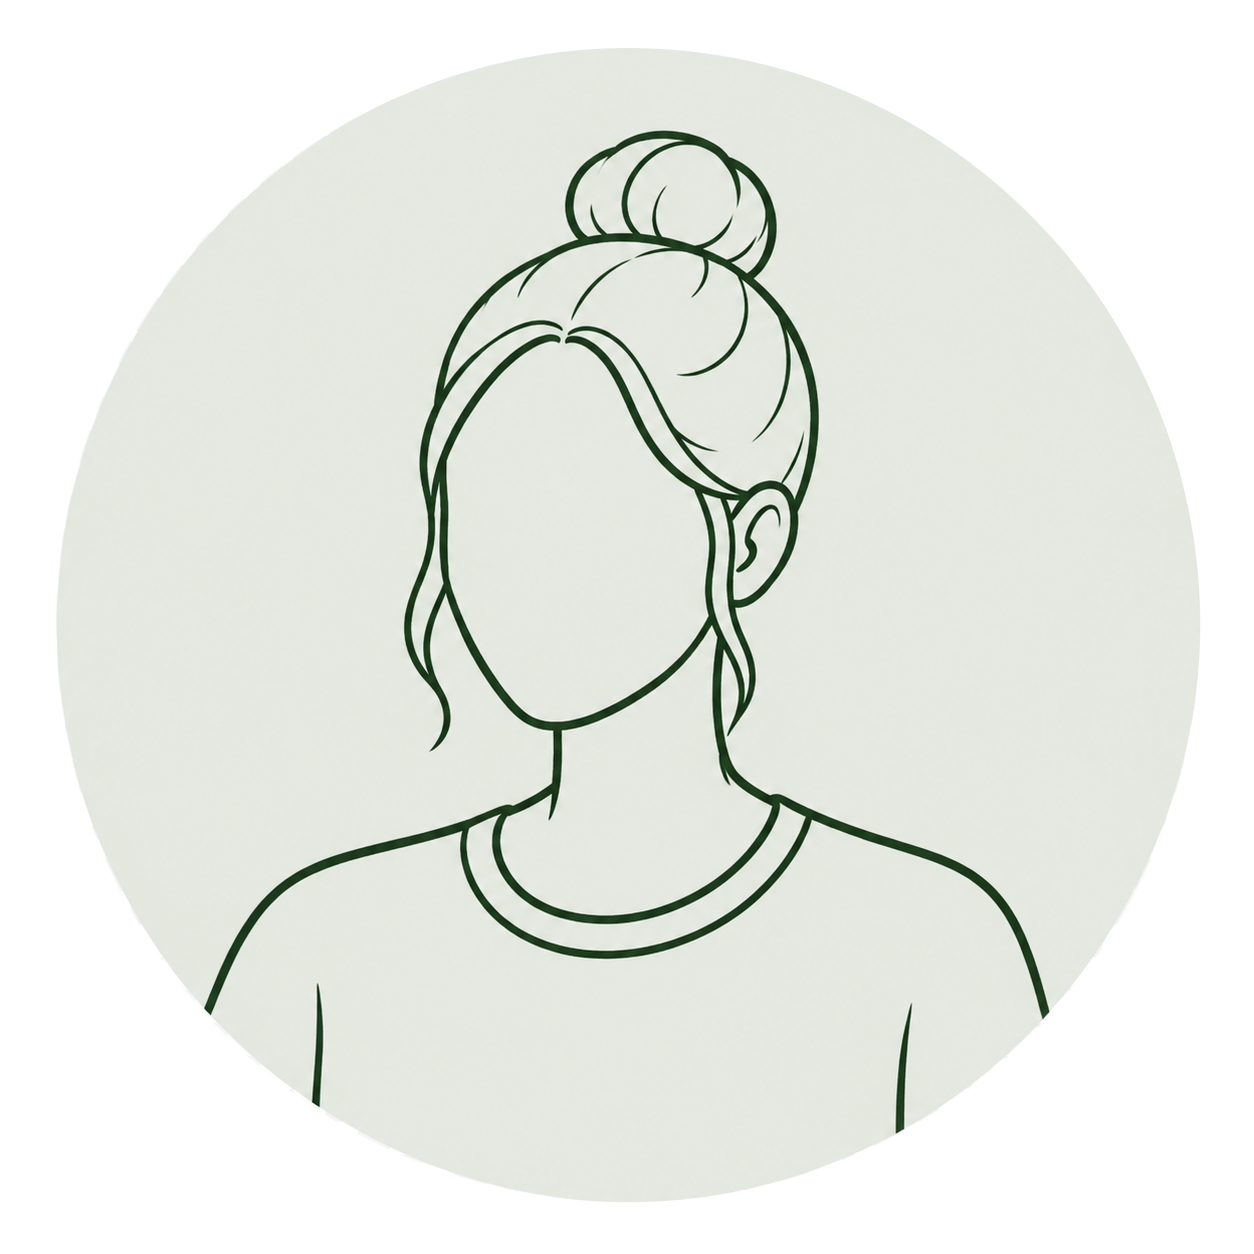
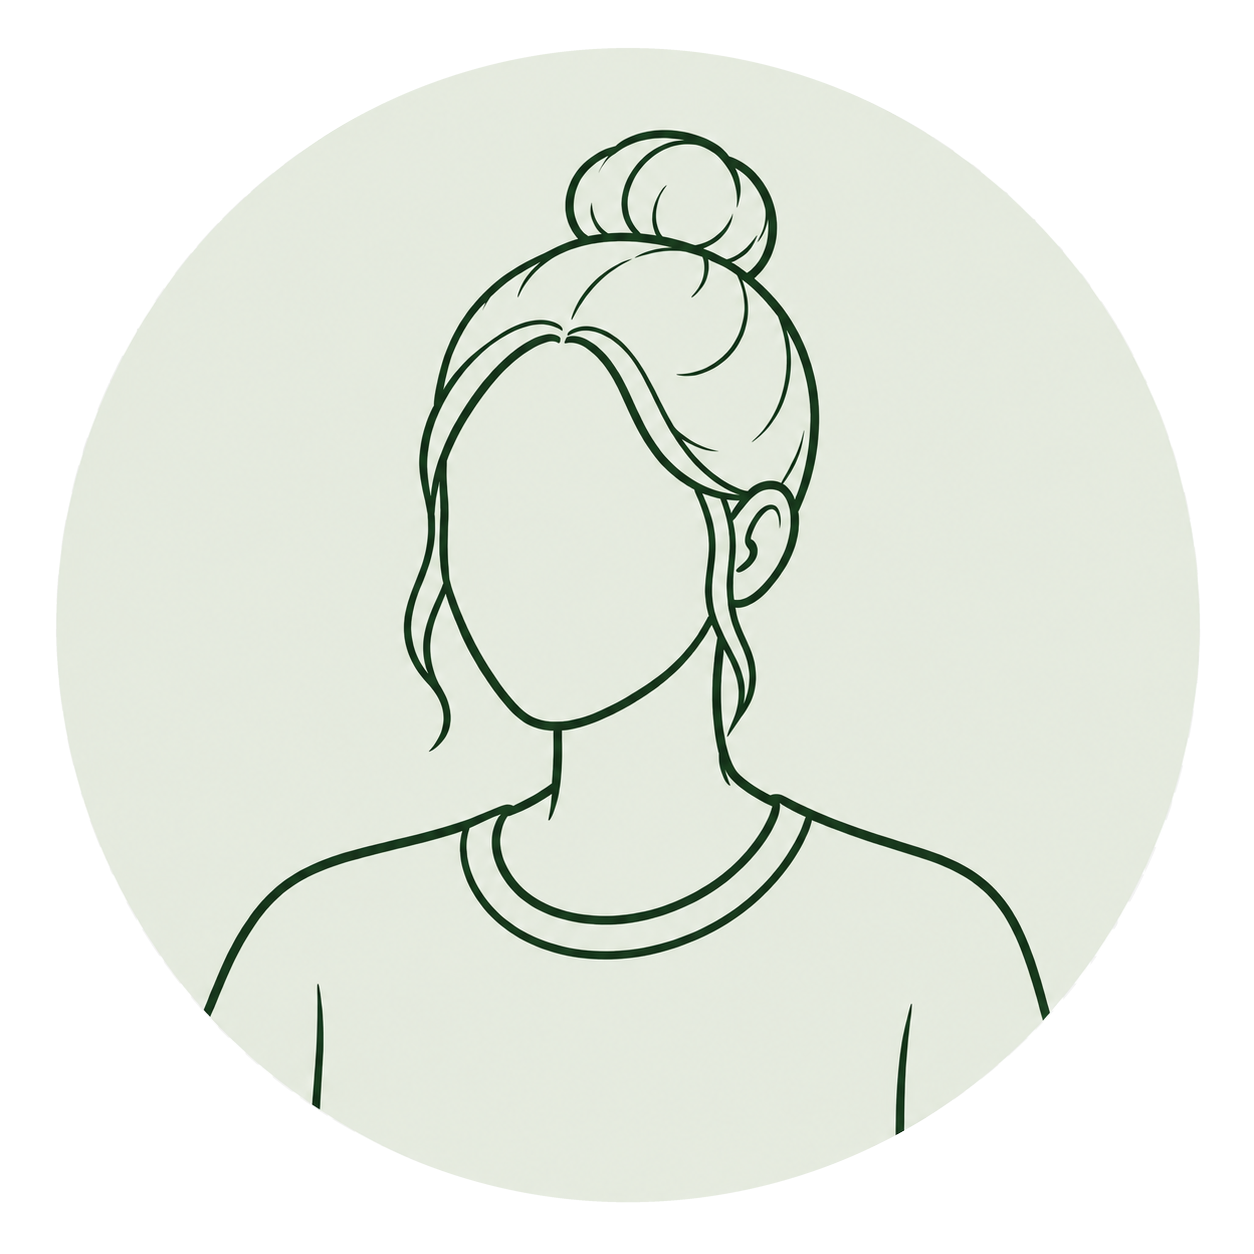
Refine profile for mobile onboarding

diff --git a/src/features/profile/ProfileScreen.tsx b/src/features/profile/ProfileScreen.tsx
@@ -35,9 +35,9 @@ export function createProfileDraft(account: FluxAccount): ProfileDraft {
   };
 }
 
-const avatarOptions: { id: DefaultAvatar; label: string; src: string }[] = [
-  { id: 'short-hair', label: 'Аватар с короткой стрижкой', src: `${import.meta.env.BASE_URL}avatars/avatar-short-hair.png` },
-  { id: 'bun', label: 'Аватар с пучком', src: `${import.meta.env.BASE_URL}avatars/avatar-bun.png` },
+const sexOptions: { sex: Exclude<ProfileDraft['calculationSex'], ''>; avatar: DefaultAvatar; label: string; src: string }[] = [
+  { sex: 'male', avatar: 'short-hair', label: 'Мужской', src: `${import.meta.env.BASE_URL}avatars/avatar-short-hair.png` },
+  { sex: 'female', avatar: 'bun', label: 'Женский', src: `${import.meta.env.BASE_URL}avatars/avatar-bun.png` },
 ];
 
 function maskPhone(phone: string) {
@@ -91,7 +91,12 @@ export function ProfileScreen({
   ];
   const completed = requiredValues.filter(Boolean).length;
   const completeness = Math.round((completed / requiredValues.length) * 100);
-  const selectedAvatar = avatarOptions.find((option) => option.id === avatar) ?? avatarOptions[0];
+  const selectedAvatar = sexOptions.find((option) => option.avatar === avatar) ?? sexOptions[0];
+
+  const selectSex = (sex: Exclude<ProfileDraft['calculationSex'], ''>, nextAvatar: DefaultAvatar) => {
+    onChange({ ...draft, calculationSex: sex });
+    onAvatarChange(nextAvatar);
+  };
 
   return (
     <section className="flux-profile-flow" aria-label="Профиль пользователя">
@@ -116,19 +121,19 @@ export function ProfileScreen({
         </section>
 
         <section className="flux-profile-card">
-          <div className="flux-profile-card-heading"><div><span>Аватар</span><strong>Как вас показывать в FLUX</strong></div><Check aria-hidden="true" /></div>
-          <div className="flux-avatar-options">
-            {avatarOptions.map((option) => (
+          <div className="flux-profile-card-heading"><div><span>Пол</span><strong>Выберите подходящий вариант</strong></div></div>
+          <div className="flux-sex-options">
+            {sexOptions.map((option) => (
               <button
-                aria-label={option.label}
-                aria-pressed={avatar === option.id}
-                className={avatar === option.id ? 'is-selected' : ''}
-                key={option.id}
-                onClick={() => onAvatarChange(option.id)}
+                aria-pressed={draft.calculationSex === option.sex}
+                className={draft.calculationSex === option.sex ? 'is-selected' : ''}
+                key={option.sex}
+                onClick={() => selectSex(option.sex, option.avatar)}
                 type="button"
               >
                 <img src={option.src} alt="" />
-                <span>{avatar === option.id ? 'Выбрано' : 'Выбрать'}</span>
+                <span><strong>{option.label}</strong><small>{draft.calculationSex === option.sex ? 'Выбрано' : 'Выбрать'}</small></span>
+                {draft.calculationSex === option.sex && <Check aria-hidden="true" />}
               </button>
             ))}
           </div>
@@ -142,9 +147,6 @@ export function ProfileScreen({
             </ProfileField>
             <ProfileField label="Дата рождения">
               <Input type="date" value={draft.birthDate} onChange={(event) => set('birthDate', event.target.value)} />
-            </ProfileField>
-            <ProfileField label="Пол для расчёта">
-              <span className="flux-profile-select"><select value={draft.calculationSex} onChange={(event) => set('calculationSex', event.target.value as ProfileDraft['calculationSex'])}><option value="">Выберите</option><option value="female">Женский</option><option value="male">Мужской</option></select><ChevronDown aria-hidden="true" /></span>
             </ProfileField>
             <ProfileField label="Рост">
               <span className="flux-profile-unit"><Input inputMode="numeric" min="100" max="250" type="number" value={draft.heightCm} onChange={(event) => set('heightCm', event.target.value)} /><i>см</i></span>

diff --git a/src/styles.css b/src/styles.css
@@ -54,13 +54,13 @@ body { margin: 0; background: #edf3eb; color: var(--foreground); font-family: Ma
 button, input { font: inherit; }
 button { cursor: pointer; }
 .flux-stage { min-height: 100dvh; display: grid; place-items: start center; padding: 22px 12px; }
-.flux-app-shell { width: min(100%, 440px); height: min(860px, calc(100dvh - 44px)); min-height: 700px; position: relative; overflow: hidden; border: 1px solid rgb(54 95 59 / 12%); border-radius: 34px; background: var(--flux-bg); box-shadow: 0 24px 70px rgb(43 70 42 / 13%); display: flex; flex-direction: column; }
+.flux-app-shell { width: min(100%, 402px); height: 874px; min-height: 874px; position: relative; overflow: hidden; border: 1px solid rgb(54 95 59 / 12%); border-radius: 34px; background: var(--flux-bg); box-shadow: 0 24px 70px rgb(43 70 42 / 13%); display: flex; flex-direction: column; }
 .flux-base-app { min-height: 0; flex: 1; display: flex; flex-direction: column; }
 .flux-topbar { height: 76px; flex: 0 0 76px; padding: 20px 23px 12px; display: flex; align-items: center; justify-content: space-between; }
 .flux-brand { min-width: 92px; min-height: 40px; display: inline-flex; align-items: center; padding: 4px 0; border: 0; background: transparent; }
 .flux-brand-lockup { width: auto; height: 30px; display: block; object-fit: contain; user-select: none; }
 .flux-avatar { width: 40px !important; height: 40px !important; padding: 0 !important; overflow: hidden; border-radius: 50% !important; font-size: 11px !important; }
-.flux-avatar img { width: 100%; height: 100%; display: block; object-fit: cover; }
+.flux-avatar img { width: 100%; height: 100%; display: block; object-fit: cover; transform: scale(2); }
 .flux-content { flex: 1; min-height: 0; overflow-y: auto; overscroll-behavior: contain; padding: 7px 22px 28px; scrollbar-width: none; }
 .flux-content::-webkit-scrollbar { display: none; }
 .flux-greeting { padding: 14px 2px 23px; }
@@ -137,11 +137,16 @@ button { cursor: pointer; }
 .flux-profile-card-heading span { color: #718071; font-size: 8px; }
 .flux-profile-card-heading strong { margin-top: 3px; font-size: 12px; font-weight: 500; }
 .flux-profile-card-heading > svg { width: 17px; height: 17px; padding: 3px; border-radius: 50%; background: #e3efdd; color: #365f3b; }
-.flux-avatar-options { display: grid; grid-template-columns: 1fr 1fr; gap: 10px; }
-.flux-avatar-options button { min-height: 94px; padding: 10px; border: 1px solid #e1e9de; border-radius: 18px; background: #f8faf7; color: #718071; display: grid; grid-template-columns: 58px 1fr; gap: 9px; align-items: center; text-align: left; }
-.flux-avatar-options button.is-selected { border-color: #78a971; background: #edf5e9; color: #365f3b; }
-.flux-avatar-options img { width: 58px; height: 58px; border-radius: 50%; object-fit: cover; }
-.flux-avatar-options span { font-size: 8px; font-weight: 500; }
+.flux-sex-options { display: grid; grid-template-columns: 1fr 1fr; gap: 10px; }
+.flux-sex-options button { min-height: 94px; position: relative; padding: 10px; border: 1px solid #e1e9de; border-radius: 18px; background: #f8faf7; color: #718071; display: grid; grid-template-columns: 58px 1fr; gap: 9px; align-items: center; text-align: left; transition: border-color .18s ease, background-color .18s ease, transform .18s ease; }
+.flux-sex-options button:hover { border-color: #cdddc9; background: #f3f8f0; }
+.flux-sex-options button:active { transform: scale(.98); }
+.flux-sex-options button.is-selected { border-color: #78a971; background: #edf5e9; color: #365f3b; }
+.flux-sex-options img { width: 58px; height: 58px; border-radius: 50%; object-fit: cover; }
+.flux-sex-options span { min-width: 0; display: grid; gap: 3px; }
+.flux-sex-options strong { color: #202b21; font-size: 10px; font-weight: 500; }
+.flux-sex-options small { color: inherit; font-size: 8px; }
+.flux-sex-options svg { width: 15px; height: 15px; position: absolute; top: 8px; right: 8px; padding: 3px; border-radius: 50%; background: #78a971; color: #fff; }
 .flux-profile-grid { display: grid; grid-template-columns: 1fr 1fr; gap: 11px; }
 .flux-profile-field { min-width: 0; display: grid; gap: 6px; }
 .flux-profile-field.is-wide { grid-column: 1 / -1; }
